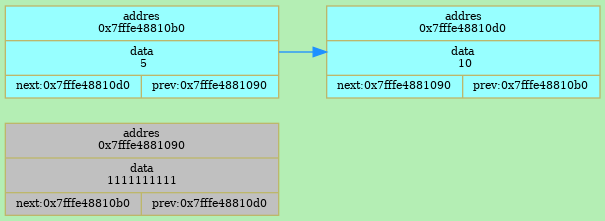
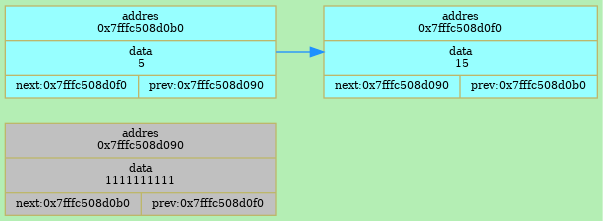
lists finished

diff --git a/cppLists/cppLists.h b/cppLists/cppLists.h
@@ -25,11 +25,13 @@ private:
 	struct item*    fictElem_   =   NULL;
     int             size_       =      0;
 public:
-    explicit        CLists  ();
-                    ~CLists ();
-    int             ListInsert (ElemType data, int num);
-    int             ListDelete (int num);
-    int             ListDump ();
+    explicit        CLists              ();
+                    ~CLists             ();
+    int             ListInsert          (ElemType data, int num);
+    int             ListInsertFront     (ElemType data);
+    int             ListInsertBack      (ElemType data);
+    int             ListDelete          (int num);
+    int             ListDump            ();
 };
 
 #endif

diff --git a/cppLists/cppLists.cpp b/cppLists/cppLists.cpp
@@ -89,6 +89,16 @@ int CLists::ListDelete (int num)
 	return NOMISTAKE;
 }
 
+int CLists::ListInsertFront (ElemType data)
+{
+    return CLists::ListInsert (data, 1);
+}
+
+int CLists::ListInsertBack (ElemType data)
+{
+    return CLists::ListInsert (data, size_ + 1);
+}
+
 int CLists::ListDump ()
 {
     DotCtor ();

diff --git a/main.cpp b/main.cpp
@@ -5,8 +5,11 @@ int main ()
 {
 	CLists l1;
 
-	l1.ListInsert (5, 1);
-	l1.ListInsert (10, 2);
+	l1.ListInsertFront (5);
+	l1.ListInsertFront (10);
+	l1.ListInsertBack  (15);
+	
+	l1.ListDelete (1);
 
 	l1.ListDump ();
 
